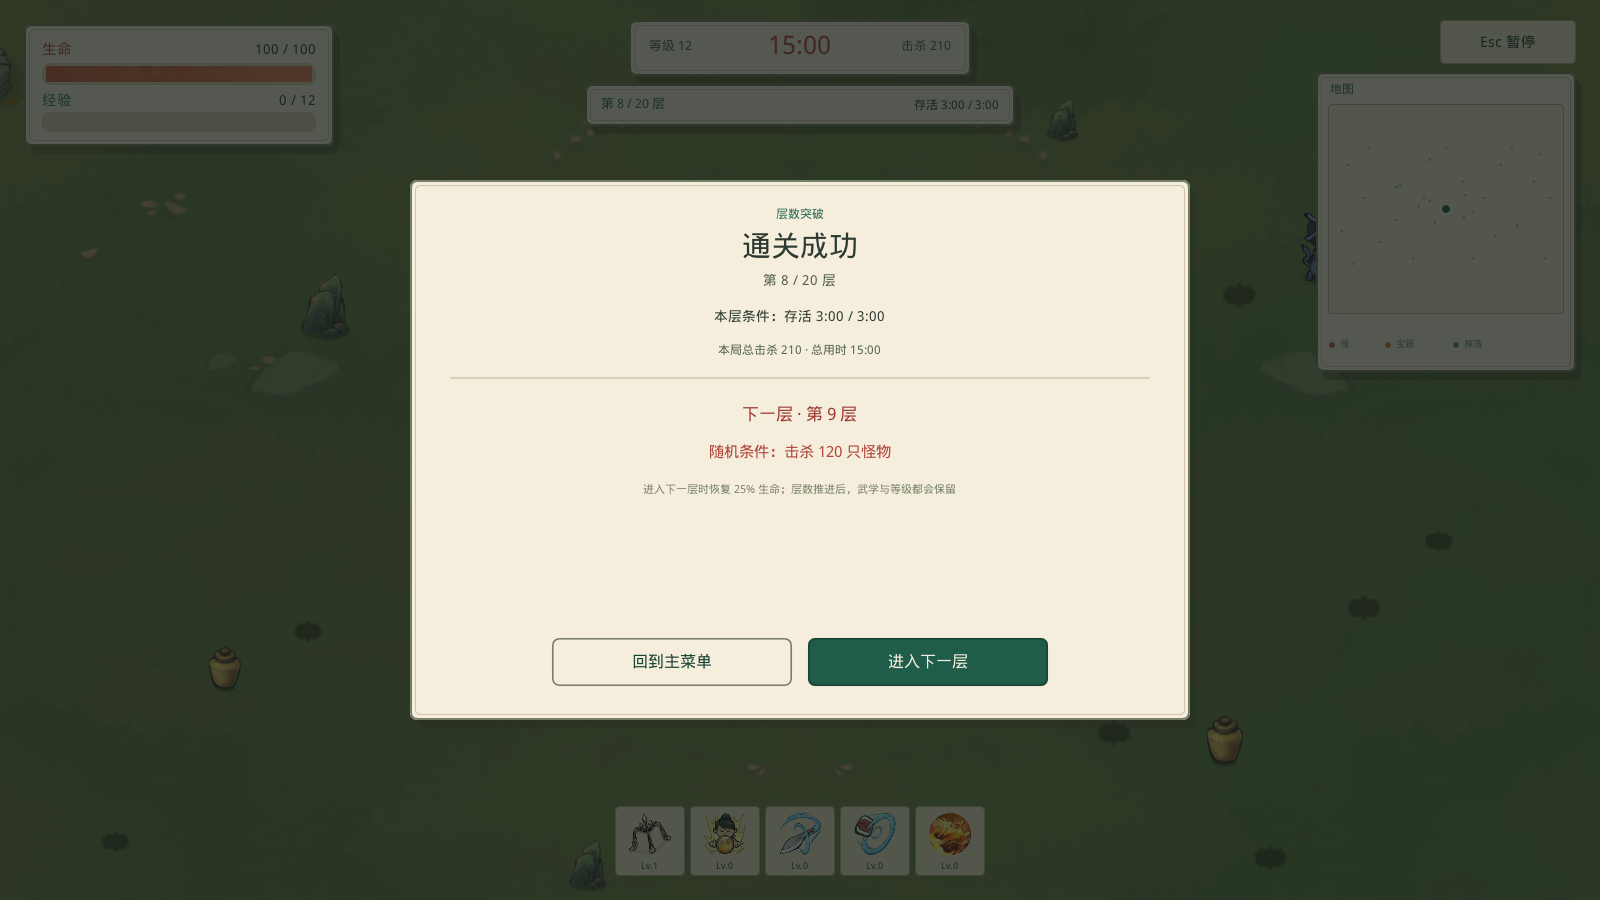
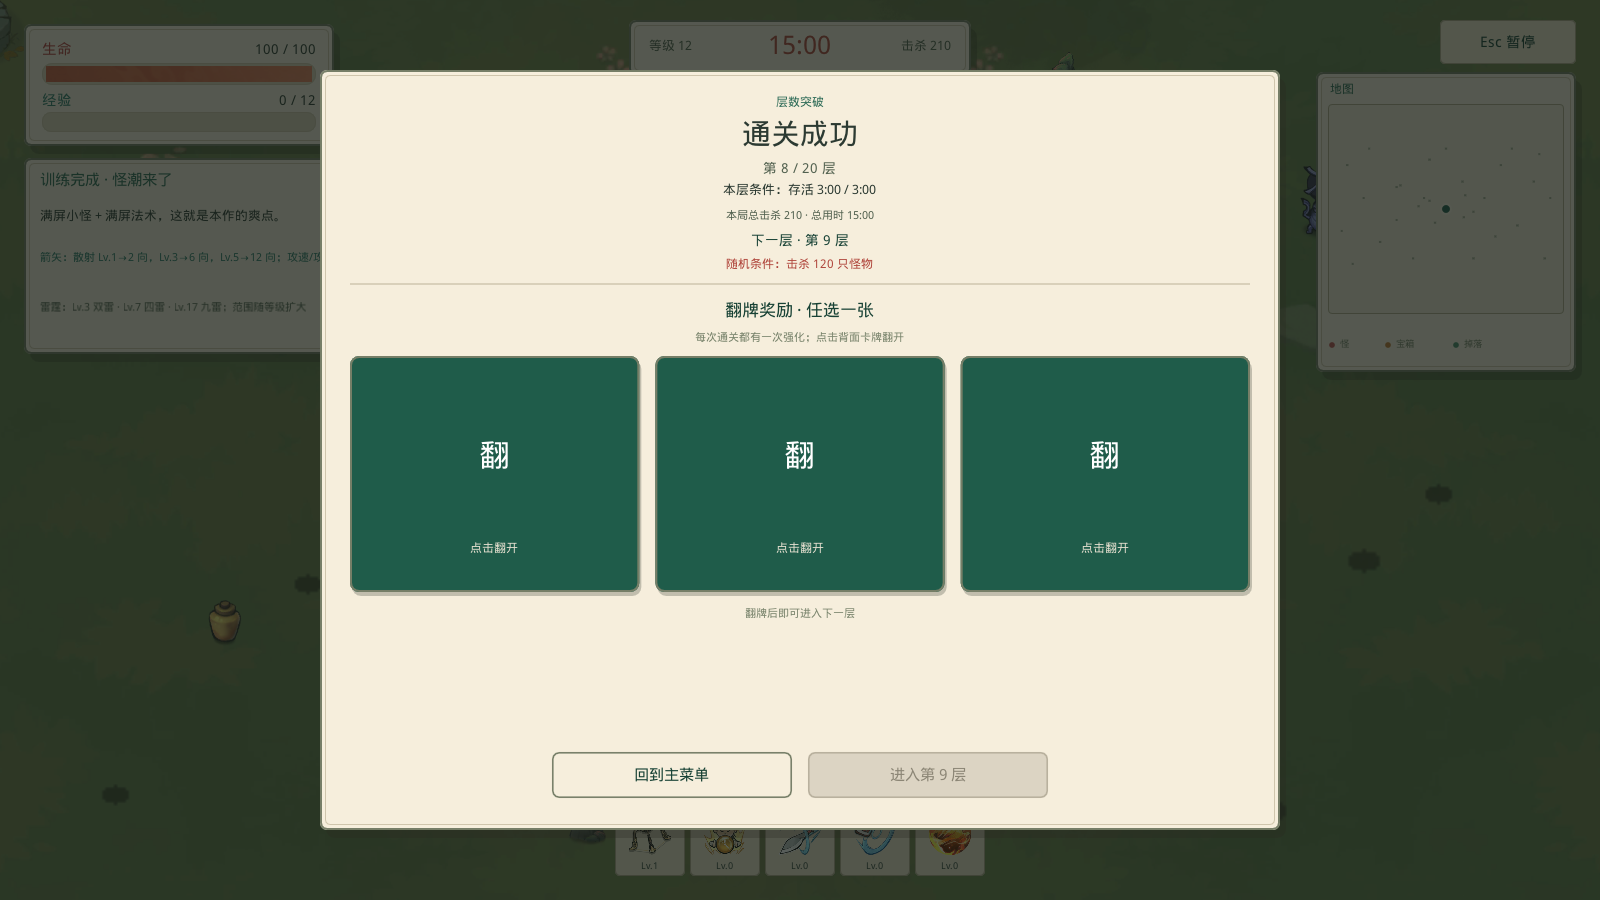
feat(game): 逐层翻牌奖励与游侠朝向修正（0.6.1）
每次通关（第 1–19 层）在结算页给三张背面翻牌卡，翻开后获得新武学/已有武学强化/生命补给；未翻牌前“进入下一层”禁用。卡牌有翻转动画、稀有度边框与技能图标，桌面/手机布局分别适配。游侠立绘镜像成面朝右（此前只有游侠背向走）；三个职业继续共用 1.5 世界单位的玩家视觉高度。

diff --git a/engine/src/game/SurvivorsUI.cpp b/engine/src/game/SurvivorsUI.cpp
@@ -2142,41 +2142,39 @@ void SurvivorsDirector::DrawSettingsScreen(float vx, float vy, float vw, float v
 void SurvivorsDirector::DrawStageClearScreen(World& world, float vx, float vy, float vw, float vh) {
     Canvas      c = MakeCanvas(vx, vy, vw, vh);
     ImDrawList* draw = ImGui::GetForegroundDrawList();
+    const bool  portrait = c.h > c.w * 1.15f;
 
-    const float panelW = FitPanelWidth(c, 780.0f);
-    const float panelH = 540.0f;
+    const float panelW = FitPanelWidth(c, portrait ? 760.0f : 960.0f);
+    const float panelH = portrait ? 820.0f : 760.0f;
     const float panelX = c.w * 0.5f - panelW * 0.5f;
     const float panelY = c.h * 0.5f - panelH * 0.5f;
     DrawPanel(draw, m_ui, c, panelX, panelY, panelW, panelH);
 
     char tag[64];
     std::snprintf(tag, sizeof(tag), "第 %d / %d 层", m_floor, kSurvivorsFloorCount);
-    DrawSectionTitle(draw, m_ui, c, panelX + 30.0f, panelY + 26.0f, panelW - 60.0f, "层数突破", "通关成功",
+    DrawSectionTitle(draw, m_ui, c, panelX + 30.0f, panelY + 24.0f, panelW - 60.0f, "层数突破", "通关成功",
                      tag, true);
 
     char goalLine[160];
     if (m_stageGoal.type == static_cast<int>(SurvivorsGoalType::Tutorial)) {
-        std::snprintf(goalLine, sizeof(goalLine), "本层条件：完成 %d 秒教学", static_cast<int>(m_stageGoal.target));
+        std::snprintf(goalLine, sizeof(goalLine), "本层条件：完成教学");
     } else {
         std::snprintf(goalLine, sizeof(goalLine), "本层条件：%s", StageGoalProgressText(world).c_str());
     }
-    DrawTextCentered(draw, m_ui, c, 16.0f, c.w * 0.5f, panelY + 128.0f, kText, goalLine);
+    DrawTextCentered(draw, m_ui, c, 15.0f, c.w * 0.5f, panelY + 112.0f, kText, goalLine);
 
     char stats[128];
     std::snprintf(stats, sizeof(stats), "本局总击杀 %d · 总用时 %s", m_kills, FormatClock(m_time).c_str());
-    DrawTextCentered(draw, m_ui, c, 14.0f, c.w * 0.5f, panelY + 162.0f, kTextDim, stats);
-    DrawRule(draw, c, panelX + 40.0f, panelY + 198.0f, panelW - 80.0f);
+    DrawTextCentered(draw, m_ui, c, 13.0f, c.w * 0.5f, panelY + 138.0f, kTextDim, stats);
 
     const int nextFloor = (std::min)(m_floor + 1, kSurvivorsFloorCount);
-    char      nextTitle[64];
+    char      nextTitle[96];
     std::snprintf(nextTitle, sizeof(nextTitle), "下一层 · 第 %d 层", nextFloor);
-    DrawTextCentered(draw, m_ui, c, 20.0f, c.w * 0.5f, panelY + 224.0f, kGold, nextTitle);
-
+    DrawTextCentered(draw, m_ui, c, 16.0f, c.w * 0.5f, panelY + 162.0f, kInkGreenDark, nextTitle);
     char nextGoal[160];
     switch (static_cast<SurvivorsGoalType>(m_nextStageGoal.type)) {
         case SurvivorsGoalType::SurviveTime:
-            std::snprintf(nextGoal, sizeof(nextGoal), "随机条件：存活 %d 秒",
-                          static_cast<int>(m_nextStageGoal.target));
+            std::snprintf(nextGoal, sizeof(nextGoal), "随机条件：存活 %d 秒", static_cast<int>(m_nextStageGoal.target));
             break;
         case SurvivorsGoalType::KillCount:
             std::snprintf(nextGoal, sizeof(nextGoal), "随机条件：击杀 %d 只怪物",
@@ -2196,19 +2194,115 @@ void SurvivorsDirector::DrawStageClearScreen(World& world, float vx, float vy, f
             break;
         default: std::snprintf(nextGoal, sizeof(nextGoal), "随机条件：通关"); break;
     }
-    DrawTextCentered(draw, m_ui, c, 18.0f, c.w * 0.5f, panelY + 262.0f, kGoldBright, nextGoal);
-    DrawTextCentered(draw, m_ui, c, 13.0f, c.w * 0.5f, panelY + 302.0f, kTextMuted,
-                     "进入下一层时恢复 25% 生命；层数推进后，武学与等级都会保留");
+    DrawTextCentered(draw, m_ui, c, 14.0f, c.w * 0.5f, panelY + 186.0f, kGoldBright, nextGoal);
+
+    DrawRule(draw, c, panelX + 30.0f, panelY + 214.0f, panelW - 60.0f);
+    DrawTextCentered(draw, m_ui, c, 20.0f, c.w * 0.5f, panelY + 230.0f, kInkGreenDark,
+                     "翻牌奖励 · 任选一张");
+    DrawTextCentered(draw, m_ui, c, 13.0f, c.w * 0.5f, panelY + 260.0f, kTextMuted,
+                     "每次通关都有一次强化；点击背面卡牌翻开");
+
+    auto* player = PlayerOf(world);
+    const float gap = portrait ? 10.0f : 16.0f;
+    const float cardW = (panelW - 60.0f - gap * 2.0f) / 3.0f;
+    const float cardH = portrait ? 214.0f : 236.0f;
+    const float cardY = panelY + 286.0f;
+    const float cardX0 = panelX + 30.0f;
+    if (m_rewardChosen == 0 || m_rewardChosen == 1 || m_rewardChosen == 2) {
+        m_rewardFlipTime = (std::min)(0.45f, m_rewardFlipTime + ImGui::GetIO().DeltaTime);
+    }
+
+    for (int i = 0; i < 3; ++i) {
+        const float x = cardX0 + (cardW + gap) * static_cast<float>(i);
+        const SurvivorsStageReward& reward = m_stageRewards[i];
+        const bool chosen = (m_rewardChosen == i);
+        const bool locked = (m_rewardChosen >= 0 && !chosen);
+        const float alpha = locked ? 0.42f : 1.0f;
+        const float angle = chosen ? (m_rewardFlipTime / 0.45f) * 3.14159265f : 0.0f;
+        const bool  front = chosen && angle >= 1.5707963f;
+        const float scaleX = chosen ? (std::max)(0.06f, std::abs(std::cos(angle))) : 1.0f;
+        const float cx = x + cardW * 0.5f;
+        const float drawW = cardW * scaleX;
+        const float dx = cx - drawW * 0.5f;
+
+        if (m_rewardChosen < 0) {
+            ImGui::SetCursorScreenPos(c.P(x, cardY));
+            if (ImGui::InvisibleButton((std::string("##stage_reward") + std::to_string(i)).c_str(),
+                                       c.S(cardW, cardH))) {
+                ApplyStageReward(world, i);
+            }
+            if (ImGui::IsItemHovered()) {
+                draw->AddRect(c.P(x - 3.0f, cardY - 3.0f), c.P(x + cardW + 3.0f, cardY + cardH + 3.0f), kGoldBright,
+                              c.V(9.0f), 0, c.V(2.0f));
+            }
+        }
+
+        if (!front) {
+            const ImU32 border = chosen ? kGoldBright : kPaperBorder;
+            draw->AddRectFilled(c.P(dx + 2.0f, cardY + 4.0f), c.P(dx + drawW + 2.0f, cardY + cardH + 4.0f),
+                                IM_COL32(20, 28, 22, 60), c.V(9.0f));
+            draw->AddRectFilled(c.P(dx, cardY), c.P(dx + drawW, cardY + cardH), kInkGreen, c.V(9.0f));
+            draw->AddRect(c.P(dx, cardY), c.P(dx + drawW, cardY + cardH), border, c.V(9.0f), 0, c.V(2.0f));
+            if (drawW > cardW * 0.35f) {
+                const float sealR = (portrait ? 30.0f : 38.0f) * scaleX;
+                draw->AddCircleFilled(c.P(cx, cardY + cardH * 0.42f), c.V(sealR), IM_COL32(156, 57, 49, alpha));
+                DrawTextCentered(draw, m_ui, c, portrait ? 30.0f : 36.0f, cx, cardY + cardH * 0.42f - 18.0f,
+                                 IM_COL32(255, 255, 255, static_cast<int>(255 * alpha)), "翻");
+                DrawTextCentered(draw, m_ui, c, 14.0f, cx, cardY + cardH - 52.0f, IM_COL32(230, 224, 208, static_cast<int>(255 * alpha)),
+                                 "点击翻开");
+            }
+        } else if (player) {
+            LevelCardInfo info;
+            if (reward.unlock) {
+                info.tag = "新武学";
+                info.name = kSkills[Clamp(reward.choice.skill, 0, 9)].name;
+                info.level = "解锁 · Lv.1";
+                info.desc = kSkills[Clamp(reward.choice.skill, 0, 9)].desc;
+                info.effect = "永久加入本局武学";
+            } else {
+                info = MakeLevelCardInfo(*player, reward.choice);
+            }
+            const ImU32 accent = reward.unlock ? kGoldBright : (reward.choice.skill == 100 ? IM_COL32(156, 57, 49, 255) : kInkGreen);
+            draw->AddRectFilled(c.P(dx, cardY), c.P(dx + drawW, cardY + cardH), kPaper, c.V(9.0f));
+            draw->AddRect(c.P(dx, cardY), c.P(dx + drawW, cardY + cardH), accent, c.V(9.0f), 0, c.V(2.0f));
+            DrawTextCentered(draw, m_ui, c, portrait ? 12.0f : 13.0f, cx, cardY + 12.0f, accent, info.tag.c_str());
+            Texture* icon = nullptr;
+            if (reward.choice.skill >= 0 && reward.choice.skill < 10) icon = m_ui.icon[reward.choice.skill];
+            if (!icon) icon = m_ui.icon[0];
+            if (icon) {
+                const float iconSize = portrait ? 38.0f : 46.0f;
+                DrawImage(draw, c, icon, cx - iconSize * 0.5f, cardY + 34.0f, iconSize, iconSize);
+            }
+            DrawTextCentered(draw, m_ui, c, portrait ? 18.0f : 21.0f, cx, cardY + 86.0f, kInkGreenDark,
+                             info.name.c_str());
+            DrawTextCentered(draw, m_ui, c, portrait ? 12.0f : 13.0f, cx, cardY + 114.0f, kTag,
+                             info.level.c_str());
+            DrawWrapped(draw, m_ui, c, portrait ? 11.5f : 12.5f, dx + 12.0f, cardY + 138.0f, drawW - 24.0f,
+                        kTextDim, info.desc.c_str(), 1.35f);
+            DrawTextCentered(draw, m_ui, c, portrait ? 11.5f : 12.5f, cx, cardY + cardH - 28.0f, kGoldBright,
+                             info.effect.c_str());
+            if (chosen) {
+                DrawTextCentered(draw, m_ui, c, 12.0f, cx, cardY + cardH - 12.0f, kTextMuted, "已获得");
+            }
+        }
+    }
+
+    if (m_rewardChosen < 0) {
+        DrawTextCentered(draw, m_ui, c, 13.0f, c.w * 0.5f, cardY + cardH + 14.0f, kTextMuted,
+                         "翻牌后即可进入下一层");
+    }
 
     const float buttonW = 240.0f;
-    const float buttonY = panelY + panelH - 82.0f;
+    const float buttonY = panelY + panelH - 78.0f;
     if (DrawButton(draw, m_ui, c, "##stage_menu", "回到主菜单", c.w * 0.5f - buttonW - 8.0f, buttonY, buttonW,
-                   48.0f, false, false, 19.0f)) {
+                   46.0f, false, false, 18.0f)) {
         PlaySfx("click", 0.6f);
         ReturnToMenu();
     }
-    if (DrawButton(draw, m_ui, c, "##stage_next", "进入下一层", c.w * 0.5f + 8.0f, buttonY, buttonW, 48.0f, true,
-                   false, 19.0f)) {
+    char nextLabel[48];
+    std::snprintf(nextLabel, sizeof(nextLabel), "进入第 %d 层", nextFloor);
+    if (DrawButton(draw, m_ui, c, "##stage_next", nextLabel, c.w * 0.5f + 8.0f, buttonY, buttonW, 46.0f, true,
+                   m_rewardChosen < 0, 18.0f)) {
         PlaySfx("click", 0.6f);
         AdvanceStage(world);
     }

diff --git a/engine/src/game/Survivors.cpp b/engine/src/game/Survivors.cpp
@@ -2753,6 +2753,8 @@ void SurvivorsDirector::Reset(World& world) {
     m_toastTimer = 0.0f;
     m_toastText.clear();
     m_victory = false;
+    m_rewardChosen = -1;
+    m_rewardFlipTime = 0.0f;
     m_stageTime = 0.0f;
     m_tutorialStep = 0;
     m_tutorialGate = false;
@@ -2795,6 +2797,8 @@ void SurvivorsDirector::ShowClassSelect(World& world) {
     m_toastTimer = 0.0f;
     m_toastText.clear();
     m_victory = false;
+    m_rewardChosen = -1;
+    m_rewardFlipTime = 0.0f;
     m_floor = 1;
     m_stageTime = 0.0f;
     ClearChestGacha();
@@ -2956,6 +2960,8 @@ void SurvivorsDirector::BeginStage(World& world, int floor, const SurvivorsStage
     m_tutorialFlash = 0.0f;
     m_tutorialFinaleStarted = false;
     m_tutorialSkipHit = Vec4(0.0f, 0.0f, 0.0f, 0.0f);
+    m_rewardChosen = -1;
+    m_rewardFlipTime = 0.0f;
     m_spawnTimer = (m_floor == 1 && m_tutorialPending) ? 0.9f : 0.6f;
     m_eliteTimer = (m_floor == 1 && m_tutorialPending)
                        ? 1.0e9f
@@ -3134,6 +3140,13 @@ void SurvivorsDirector::CompleteStage(World& world) {
     m_nextStageGoal = RollStageGoal(m_floor + 1, m_stageGoal.type);
     m_state = State::StageClear;
     m_selectedSkill = -1;
+    m_rewardChosen = -1;
+    m_rewardFlipTime = 0.0f;
+    if (GameObject* playerObject = FindPlayer((World&)world)) {
+        if (auto* player = playerObject->GetComponent<SurvivorsPlayerComponent>()) {
+            GenerateStageRewards(*player);
+        }
+    }
     PlaySfx("levelup", 0.62f, 1.18f);
     LogInfo("[2D] 第 %d 层通过：%s %.0f；下一层条件 %s %.0f", m_floor, SurvivorsGoalName(m_stageGoal.type),
             m_stageGoal.target, SurvivorsGoalName(m_nextStageGoal.type), m_nextStageGoal.target);
@@ -3761,6 +3774,62 @@ void SurvivorsDirector::ApplyLevelUpChoice(World& world, int index) {
     m_selectedSkill = -1;
 }
 
+void SurvivorsDirector::GenerateStageRewards(const SurvivorsPlayerComponent& player) {
+    std::vector<SurvivorsStageReward> pool;
+    const bool canUnlock = player.SelectedSkillCount() < kSurvivorsMaxLoadout;
+    if (canUnlock) {
+        for (int skill = 1; skill < kSurvivorsSkillCount; ++skill) {
+            if (!player.HasSkill(skill)) pool.push_back({SurvivorsLevelUpChoice{skill, 0}, true});
+        }
+    }
+    for (int skill = 0; skill < kSurvivorsSkillCount; ++skill) {
+        if (player.HasSkill(skill) && !player.SkillMaxed(skill)) {
+            pool.push_back({SurvivorsLevelUpChoice{skill, 0}, false});
+        }
+    }
+    if (player.HasSkill(0)) {
+        if (player.arrowSpreadLevel < kSurvivorsMaxArrowSpreadLevel) pool.push_back({{0, 0}, false});
+        if (player.arrowSpeedLevel < kSurvivorsMaxArrowSpeedLevel) pool.push_back({{0, 1}, false});
+        if (player.arrowDamageLevel < kSurvivorsMaxArrowDamageLevel) pool.push_back({{0, 2}, false});
+        if (player.arrowRangeLevel < kSurvivorsMaxArrowRangeLevel) pool.push_back({{0, 3}, false});
+    }
+    // 补给保底；技能全满时也能翻到生命/上限奖励。
+    pool.push_back({{100, 0}, false});
+    pool.push_back({{100, 1}, false});
+    pool.push_back({{100, 2}, false});
+    std::shuffle(pool.begin(), pool.end(), g_rng);
+
+    bool used[kSurvivorsSkillCount] = {};
+    int  picked = 0;
+    for (const SurvivorsStageReward& reward : pool) {
+        if (picked >= 3) break;
+        if (reward.choice.skill >= 0 && reward.choice.skill < kSurvivorsSkillCount) {
+            if (used[reward.choice.skill]) continue;
+            used[reward.choice.skill] = true;
+        }
+        m_stageRewards[picked++] = reward;
+    }
+    while (picked < 3) m_stageRewards[picked++] = {{100, 2}, false};
+    std::shuffle(m_stageRewards, m_stageRewards + 3, g_rng);
+}
+
+void SurvivorsDirector::ApplyStageReward(World& world, int index) {
+    if (m_state != State::StageClear || m_rewardChosen >= 0 || index < 0 || index > 2) return;
+    GameObject* playerObject = FindPlayer(world);
+    auto*       player = playerObject ? playerObject->GetComponent<SurvivorsPlayerComponent>() : nullptr;
+    if (!player) return;
+
+    const SurvivorsStageReward& reward = m_stageRewards[index];
+    if (reward.unlock) {
+        if (!player->UnlockSkill(reward.choice.skill)) return;
+    } else {
+        player->ApplyLevelUpUpgrade(reward.choice.skill, reward.choice.sub);
+    }
+    m_rewardChosen = index;
+    m_rewardFlipTime = 0.0f;
+    PlaySfx("levelup", 0.7f, 1.25f);
+}
+
 void SurvivorsDirector::ApplyPreviewState(World& world, const std::string& screen) {
     // 仅用于 --ui-preview 截图/走查。正常游戏不会调用。
     if (screen.empty()) return;
@@ -3913,6 +3982,13 @@ void SurvivorsDirector::ApplyPreviewState(World& world, const std::string& scree
                 player->loadoutMask = (1 << 0) | (1 << 1) | (1 << 2) | (1 << 3) | (1 << 5);
                 player->level = 12;
                 player->RefreshDerivedStats();
+            }
+        }
+        m_rewardChosen = -1;
+        m_rewardFlipTime = 0.0f;
+        if (GameObject* playerObject = FindPlayer(world)) {
+            if (auto* player = playerObject->GetComponent<SurvivorsPlayerComponent>()) {
+                GenerateStageRewards(*player);
             }
         }
         m_state = State::StageClear;

diff --git a/engine/src/game/Survivors.h b/engine/src/game/Survivors.h
@@ -63,7 +63,7 @@ constexpr float kSurvivorsSpawnHalfX = 40.0f * kSurvivorsMapScale;
 constexpr float kSurvivorsSpawnHalfY = 22.0f * kSurvivorsMapScale;
 
 // 开发版/正式版共用的版本号；暂停页会显示，方便真机确认装的是哪一版。
-constexpr const char* kSurvivorsVersion = "0.6.0";
+constexpr const char* kSurvivorsVersion = "0.6.1";
 // 技能等级上限 20；箭矢可分配强化合计 24 级（1 基础 + 攻速 6 + 攻击 8 + 范围 4 + 散射 5），按 20 级封顶。
 constexpr int kSurvivorsMaxSkillLevel = 20;
 constexpr int kSurvivorsMaxArrowSpeedLevel = 6;
@@ -465,6 +465,12 @@ struct SurvivorsLevelUpChoice {
     int sub = 0;   // 箭矢专用：0=散射 1=攻速 2=攻击 3=范围
 };
 
+// 每层通关后的翻牌奖励：unlock=true 表示解锁新武学，否则强化已有武学。
+struct SurvivorsStageReward {
+    SurvivorsLevelUpChoice choice;
+    bool                   unlock = false;
+};
+
 // ---------------------------------------------------------------- 导演（波次/菜单/HUD/存档）
 class SurvivorsDirector {
 public:
@@ -584,6 +590,8 @@ private:
     void OpenLevelUp(const SurvivorsPlayerComponent& player);
     void GenerateLevelUpChoices(const SurvivorsPlayerComponent& player);
     void ApplyLevelUpChoice(World& world, int index);
+    void GenerateStageRewards(const SurvivorsPlayerComponent& player);
+    void ApplyStageReward(World& world, int index);
 
     State       m_state = State::Menu;
     int         m_kills = 0;
@@ -634,6 +642,9 @@ private:
     SurvivorsUIAssets     m_ui;
     bool                  m_uiReady = false;
     SurvivorsLevelUpChoice m_levelChoices[3];
+    SurvivorsStageReward   m_stageRewards[3];
+    int                    m_rewardChosen = -1;
+    float                  m_rewardFlipTime = 0.0f;
     int                   m_selectedSkill = -1;
     std::string           m_pauseNotice;
     bool                  m_confirmExit = false;

diff --git a/tools/import_inkwash_assets.py b/tools/import_inkwash_assets.py
@@ -163,7 +163,7 @@ def build_widgets():
     # 2D 朝向约定：所有角色/怪物贴图统一烘焙成面朝右（右 = +X），运行期只用 FaceMovementX。
     # 逐张标记源图是否需要镜像：郭蛇雕原画面朝右，令狐啸/莫愁姐原画面朝左。
     heroes = [
-        ('mp_img_taohuagu_guoshediao.png', False),
+        ('mp_img_taohuagu_guoshediao.png', True),
         ('mp_img_huashanpai_linghuxiao.png', False),
         ('mp_img_shenmupai_mochoujie.png', True),
     ]

diff --git a/文档/screenshots/xianxia-ui/README.md b/文档/screenshots/xianxia-ui/README.md
@@ -1,11 +1,11 @@
-# 2D 幸存者 0.6.0：仙侠 UI、分步教学与角色/技能居中
+# 2D 幸存者 0.6.1：仙侠 UI、分步教学与角色/技能居中
 
 参考：`D:\GameEngine\game\xianxia-design`（暖宣纸 + 青玉 + 朱砂的仙侠 UI 设计稿）。
 
 ## 对照口径
 
 - **Before**：`main @ 0cf36d8`（0.4.0 之前的暗色水墨 UI）。
-- **After**：本分支 0.6.0。
+- **After**：本分支 0.6.1。
 - 桌面 1600×900，手机竖屏 500×874。旧版截图使用 402×874；本机新版 Chrome 会强制 ≥500px 布局宽度，500×874 才是完整未裁切的竖屏视口，因此 Before/After 均用 500×874 重拍。
 - 截图由 Windows Chrome headless（SwiftShader WebGL1）直接抓取 H5 产物，未使用 mockup 或图片编辑。
 
@@ -31,6 +31,7 @@
 | `after-tutorial-finale-1600x900.png` | 四步完成后的 35 秒怪潮实战与成长方向面板 |
 | `after-tutorial-500x874.png` | 手机竖屏分步教学面板（底部，不挡角色） |
 | `after-stage-1600x900.png` / `after-stage-500x874.png` | 第 8 层：人物、飞刃圈与技能都以身体中心为圆心 |
-| `after-stageclear-1600x900.png` | 层间结算（宣纸法册 + 青玉按钮） |
+| `after-stageclear-1600x900.png` / `after-stageclear-500x874.png` | 层间结算 + 三张背面翻牌奖励 |
+| `after-stageclear-flipped-1600x900.png` | 翻开一张奖励卡（技能强化 / 新武学 / 补给） |
 | `after-victory-1600x900.png` | 通关 20 层结算 |
 | `after-levelup-1600x900.png` / `after-settings-1600x900.png` / `after-codex-1600x900.png` / `after-gacha-1600x900.png` | 升级三选一 / 设置 / 图鉴 / 开箱抽奖 |

diff --git a/CHANGELOG.md b/CHANGELOG.md
@@ -10,6 +10,7 @@
 - 2D 幸存者 0.6.0：人物立绘整体缩到 1.5 世界单位（原 3.0），相机、飞刃圈和全部技能特效改以身体中心（脚底 +0.75）为基准
 
 ### Fixed
+- 2D 幸存者 0.6.1：所有职业的玩家视觉高度统一走 `SurvivorsApplyPlayerVisual` 的 1.5 世界单位（选人、开局、读档、同屏队友都走同一函数）；剑士立绘镜像成面朝右，修正与其他两个职业不一致的默认朝向
 - 2D 幸存者 0.6.0：角色/怪物贴图在导入阶段统一烘焙成面朝右；引擎新增 `SpriteRendererComponent::FaceMovementX` 作为唯一翻转入口，删除各职业/怪物各自猜原画朝向的逻辑；死亡残影继承朝向
 - 2D 幸存者 0.5.2：以回旋刃轨道为参照，把飞刃圈圆心从玩家脚底改到角色身体中心（+1.5 世界单位），并去掉重复的飞刃绘制；人物与飞刃圈在屏幕上同心
 - 2D 幸存者 0.5.1：修复微信 iOS 启动崩溃——`std::random_device` 依赖 `crypto.getRandomValues`，微信运行时没有该接口导致 `WXUncaughtException` abort；关卡随机种子改用 `Timer::Now()`，并在 `InstallWeChatCompatShims` 补一个仅用于游戏随机种子的 `crypto.getRandomValues` 兜底

diff --git a/文档/版本文档/2D幸存者-20层与教学.md b/文档/版本文档/2D幸存者-20层与教学.md
@@ -1,6 +1,6 @@
 # 2D 幸存者：职业选择、教学关与 20 层关卡
 
-> 本文档对应 2D 幸存者 0.6.0 的玩法调整：进入先选职业、第 1 层教学关、2–20 层随机通关条件。
+> 本文档对应 2D 幸存者 0.6.1 的玩法调整：进入先选职业、第 1 层教学关、2–20 层随机通关条件。
 > 数值与文案以 `engine/src/game/Survivors.h` / `Survivors.cpp` 为准。
 
 ## 1. 进入流程
